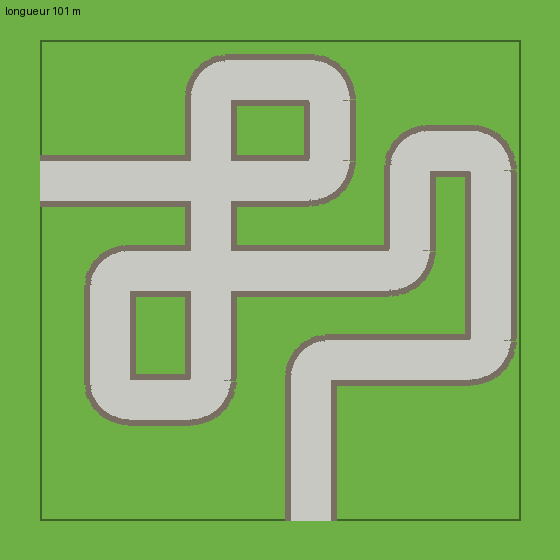
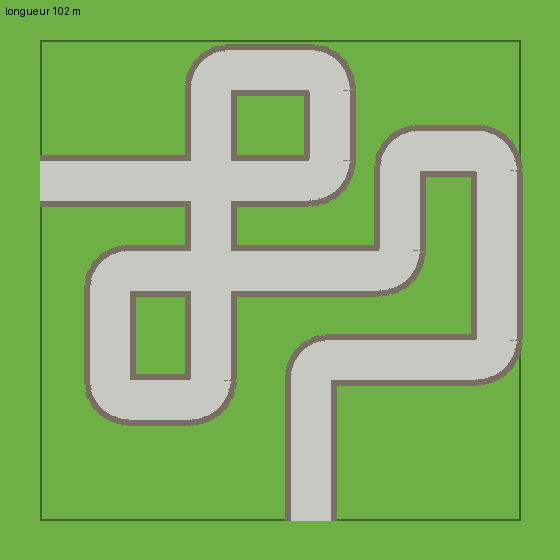
Singes plus serrés (0,95 m) et boucles agrandies : au moins 8 singes par boucle (#102) + journal

diff --git a/Unity/Assets/_Project/Scripts/Core/MapLayout.cs b/Unity/Assets/_Project/Scripts/Core/MapLayout.cs
@@ -21,15 +21,15 @@ namespace SAE
         {
             new Vector2(-12f, 5f),     // entrée, bord ouest
             new Vector2(2.5f, 5f),
-            new Vector2(2.5f, 10f),    // petite boucle au nord
-            new Vector2(-3.5f, 10f),
+            new Vector2(2.5f, 10.5f),   // petite boucle au nord
+            new Vector2(-3.5f, 10.5f),
             new Vector2(-3.5f, -6f),   // longue descente : croise deux fois le chemin
             new Vector2(-8.5f, -6f),
             new Vector2(-8.5f, 0.5f),   // boucle à l'ouest
-            new Vector2(6.5f, 0.5f),
-            new Vector2(6.5f, 6.5f),
-            new Vector2(10.5f, 6.5f),   // boucle à l'est
-            new Vector2(10.5f, -4f),
+            new Vector2(6f, 0.5f),
+            new Vector2(6f, 6.5f),
+            new Vector2(10.8f, 6.5f),   // boucle à l'est
+            new Vector2(10.8f, -4f),
             new Vector2(1.5f, -4f),
             new Vector2(1.5f, -12f),    // sortie, bord sud, juste devant l'estrade du joueur
         };
@@ -60,11 +60,11 @@ namespace SAE
 
         static Vector3 ToMap(Vector2 p) => new Vector3(p.x, 0f, p.y);
 
-        // Peut-on poser un singe de rayon 'radius' en pos (x, z) ? Dans la carte et pas sur le chemin.
-        public static bool CanPlace(Vector2 pos, float radius)
+        // Peut-on poser un singe en pos (x, z) ? Dans la carte, et son centre à au moins margin mètres du bord du chemin.
+        public static bool CanPlace(Vector2 pos, float margin)
         {
-            if (Mathf.Abs(pos.x) > HalfExtent - radius || Mathf.Abs(pos.y) > HalfExtent - radius) return false;
-            return DistanceToPath(pos) >= PathWidth / 2f + radius;
+            if (Mathf.Abs(pos.x) > HalfExtent - margin || Mathf.Abs(pos.y) > HalfExtent - margin) return false;
+            return DistanceToPath(pos) >= PathWidth / 2f + margin;
         }
 
         // Distance (en mètres) entre un point (x, z) et le chemin le plus proche.

diff --git a/Unity/Assets/_Project/Scripts/Core/Placement.cs b/Unity/Assets/_Project/Scripts/Core/Placement.cs
@@ -10,7 +10,11 @@ namespace SAE
     // pos = position (x, z) en mètres dans le repère de la carte.
     public static class Placement
     {
-        public const float Radius = TowerManager.TowerSize / 2f;
+        public const float Radius = TowerManager.TowerSize / 2f;   // pour viser un singe posé (le prendre, le fusionner)
+        // Pour poser : deux singes peuvent être côte à côte (le modèle est moins large que sa boîte de 1,2 m),
+        // et un singe peut mordre un peu sur le gravier du bord du chemin. Ainsi on en met 2 × 2 dans les boucles.
+        public const float Spacing = 0.95f;      // distance minimale entre deux singes posés, en mètres
+        public const float PathMargin = 0.45f;   // distance minimale entre le centre du singe et le bord des dalles
 
         public static PlacementAction Evaluate(Vector2 pos, out PlacedMonkey target)
         {
@@ -18,8 +22,9 @@ namespace SAE
             target = GameState.Nearest(pos, Radius * 2f);
 
             if (held == null) return target != null ? PlacementAction.PickUp : PlacementAction.None;
-            if (target != null) return target.monkey.CanFuseWith(held.Value) ? PlacementAction.Fuse : PlacementAction.Blocked;
-            return MapLayout.CanPlace(pos, Radius) ? PlacementAction.Place : PlacementAction.Blocked;
+            if (target != null && target.monkey.CanFuseWith(held.Value)) return PlacementAction.Fuse;
+            if (GameState.Nearest(pos, Spacing) != null) return PlacementAction.Blocked;   // trop collé à un autre singe
+            return MapLayout.CanPlace(pos, PathMargin) ? PlacementAction.Place : PlacementAction.Blocked;
         }
 
         public static void Apply(Vector2 pos)

diff --git a/docs/journal/dylan.md b/docs/journal/dylan.md
@@ -26,6 +26,7 @@ _Entrée la plus récente en haut. Une entrée par jour travaillé. Toute aide d
 | Claude (Claude Code) | Branche `feat/chemin-bloons` : chemin des ballons refait comme une carte de Bloons TD (#102) : 13 points de passage et une courbe lisse (Catmull-Rom) dans `MapLayout`, entrée au bord ouest, sortie au sud près de l'estrade ; `TrackView` dessine le chemin (terre + contour sombre) sur une pelouse unie, sur la carte et le plateau du hub. Vérifié : 72 m de long (90 avant), 6 m entre deux passages. Compilé, scènes à régénérer, pas testé au casque | Gardé (à tester) |
 | Claude (Claude Code) | Retour de Dylan (« rien n'a changé », scènes pas régénérées, et un simple ruban, pas assez stylé) : chemin refait comme la carte Monkey Lane de Bloons (#102) : 13 lignes droites aux coins arrondis, qui se croisent deux fois, 101 m ; dalles de pierre de trois gris sur du gravier ; le terrain de la carte prend l'herbe de la prairie (sol remonté au niveau du jeu) ; décor (`MapDecor`) : fleurs, touffes d'herbe, cailloux, champignons, buissons autour, fusionnés par couleur (`MeshBatch`) pour le casque. `TrackView` jeté. Aperçu vu du dessus vérifié (`docs/captures/chemin-v2-apercu.png`). Compilé, à régénérer et tester | Gardé (à tester) |
 | Claude (Claude Code) | Retour de Dylan : buissons « bizarres » (facettes noires). Cause : faces de la forme à 20 faces à l'envers (on voyait l'intérieur). Remplacée par une boule lisse (icosaèdre découpé deux fois, faces orientées vers l'extérieur par calcul) ; vert des buissons calé sur ceux du paysage (#102). Compilé, à régénérer | Gardé (à tester) |
+| Claude (Claude Code) | Singes « deux par deux » (#102) : deux singes peuvent se coller (0,95 m entre centres au lieu de 1,2) et mordre un peu sur le gravier (`Placement.Spacing`, `PathMargin`) ; boucles nord et est agrandies. Calcul : 12 singes dans la boucle nord, 8 à l'ouest, 11 à l'est (6, 6 et 4 avant, en les collant). Compilé, à régénérer et tester | Gardé (à tester) |
 
 ## Mer. 7 oct. 2026
 **Décor refait dans Blender (#61, #66)** _(rendus de prévisualisation Blender, pas encore Unity)_

diff --git a/prompts/prompts_dylan.md b/prompts/prompts_dylan.md
@@ -8,6 +8,7 @@ _Les demandes les plus utiles faites à l'IA (Claude Code), **reformulées et co
 > Améliore le chemin des ballons, en t'inspirant des vraies cartes du jeu (Bloons TD).
 > Suite : rien n'a changé ? Je veux quelque chose de stylé, comme cette carte de Bloons (chemin de dalles qui se croise, herbe, fleurs). Le sol doit être comme l'herbe de base, avec du décor.
 > Suite : juste ces trucs (les buissons) sont bizarres.
+> Suite : j'aimerais qu'on puisse mettre les singes deux par deux, comme sur ma capture : singes plus serrés, et plus de place dans les boucles.
 
 ### Fiche du singe et coffre
 > Quand on appuie sur A, je veux que les informations du singe soient plus lisibles, pas juste des infos données comme ça : à gauche, on voit le singe avec son aura, etc. Et quand on ouvre le coffre, ça doit respecter la DA globale.
